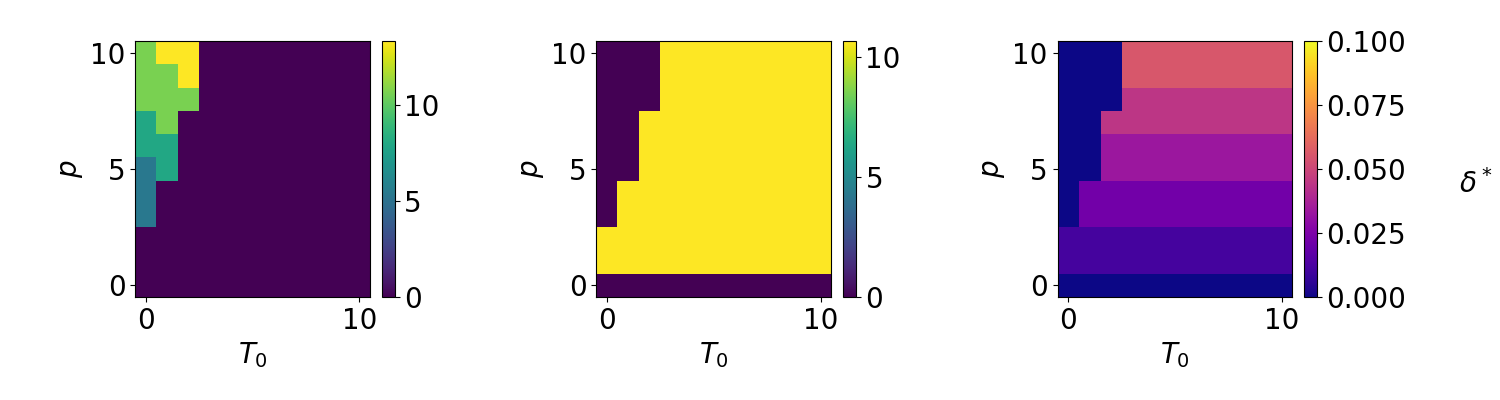
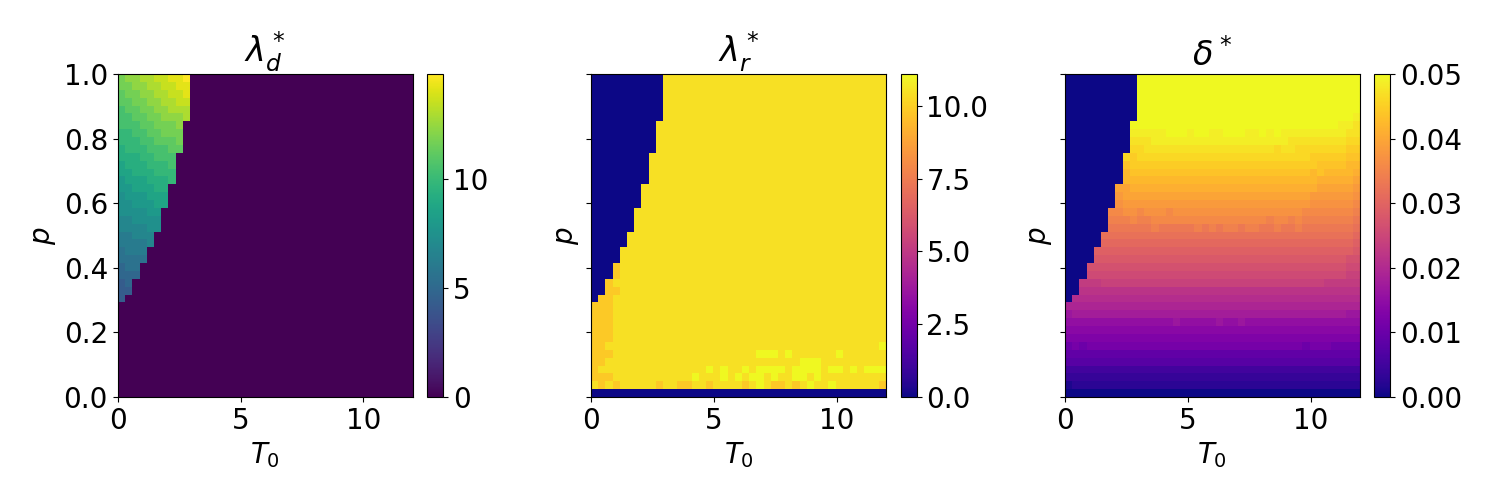
plotted constant Tab=12

diff --git a/3-state_model/plot_heatmap_constant_Tab.py b/3-state_model/plot_heatmap_constant_Tab.py
@@ -26,9 +26,9 @@ T      = np.outer(np.ones_like(T_arr), T_arr)
 T[:,0] = 1
 
 #importing data 
-λd_opt = np.loadtxt(f'{folder}/optimal_λd-Tab_{Tab}.txt')
-λr_opt = np.loadtxt(f'{folder}/optimal_λr-Tab_{Tab}.txt')
-δ_opt  = np.loadtxt(f'{folder}/optimal_δ-Tab_{Tab}.txt')
+λd_opt = np.loadtxt(f'{folder}/single_optimal_λd-Tab_{Tab}.txt')
+λr_opt = np.loadtxt(f'{folder}/single_optimal_λr-Tab_{Tab}.txt')
+δ_opt  = np.loadtxt(f'{folder}/single_optimal_δ-Tab_{Tab}.txt')
 
 λr_opt = λr_opt * (δ_opt > 0) 
 
@@ -38,13 +38,13 @@ fig, ax = plt.subplots(1, 3, figsize=(15, 5), sharey=True)
 # fig.suptitle(title)
 
 # plotting lag
-ax[0].set(xlabel=r'$T_0$', ylabel=r"$p$", title=r"$\lambda^*_d / T$")
-ax[1].set(xlabel=r'$T_0$', ylabel=r"$p$", title=r"$\lambda^*_r / T$")
+ax[0].set(xlabel=r'$T_0$', ylabel=r"$p$", title=r"$\lambda^*_d$")
+ax[1].set(xlabel=r'$T_0$', ylabel=r"$p$", title=r"$\lambda^*_r$")
 ax[2].set(xlabel=r'$T_0$', ylabel=r"$p$", title=r"$\delta^*$")
 
-im0 = ax[0].imshow(λd_opt / T, origin="lower", cmap=d_cmap, aspect="auto", vmin=0, vmax=1.1, extent=[T0_min, T0_max, 0, 1])
-im1 = ax[1].imshow(λr_opt / T, origin="lower", cmap=r_cmap, aspect="auto", vmin=0, vmax=1.1, extent=[T0_min, T0_max, 0, 1])
-im2 = ax[2].imshow(δ_opt,      origin="lower", cmap=r_cmap, aspect="auto", vmin=0, extent=[T0_min, T0_max, 0, 1])
+im0 = ax[0].imshow(λd_opt, origin="lower", cmap=d_cmap, aspect="auto", vmin=0, extent=[T0_min, T0_max, 0, 1])
+im1 = ax[1].imshow(λr_opt, origin="lower", cmap=r_cmap, aspect="auto", vmin=0, extent=[T0_min, T0_max, 0, 1])
+im2 = ax[2].imshow(δ_opt,  origin="lower", cmap=r_cmap, aspect="auto", vmin=0, extent=[T0_min, T0_max, 0, 1])
 #im2 = ax[2].imshow(δ_opt,  origin="lower", norm=mpl.colors.LogNorm(vmin=10**(-6), vmax=δ_max, clip=False), cmap=δ_cmap, aspect="auto", extent=[T_arr.min(), T_arr.max(), 0, p_max])
 
 # Colorbars

diff --git a/3-state_model/main_single_species_constant_Tab.py b/3-state_model/main_single_species_constant_Tab.py
@@ -35,7 +35,7 @@ stoch_param = 'none'
 ###########################
 ## Antibiotic parameters ##
 ###########################
-p_arr  = np.linspace(0, 1, ab_res)       # probability of antibiotics
+p_arr  = np.linspace(0, 1, ab_res)          # probability of antibiotics
 T0_arr = np.linspace(0, T0_max, ab_res)     # time array
 
 
